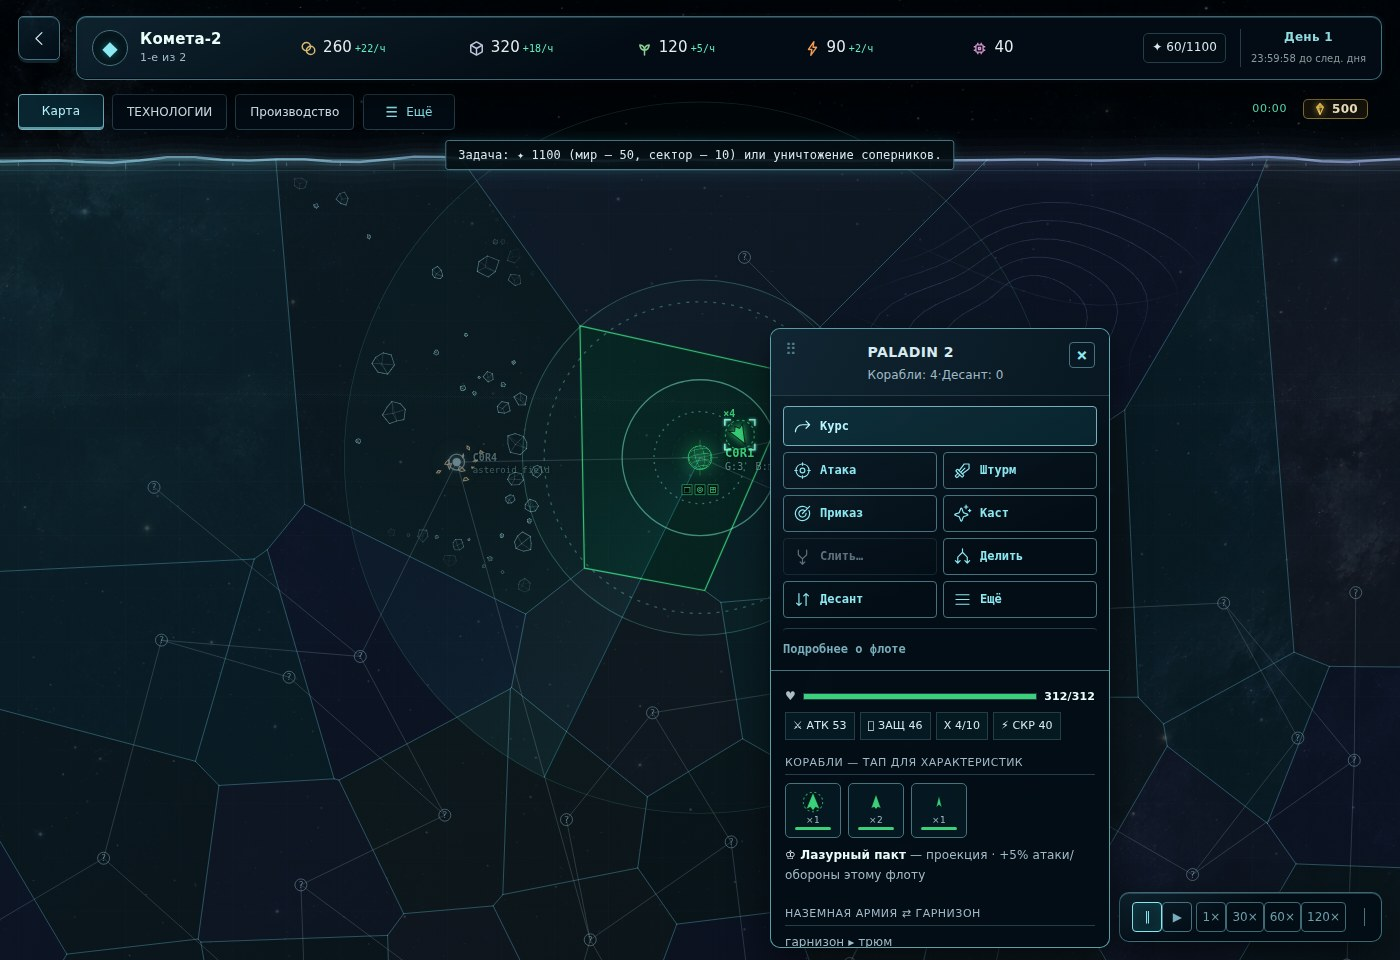
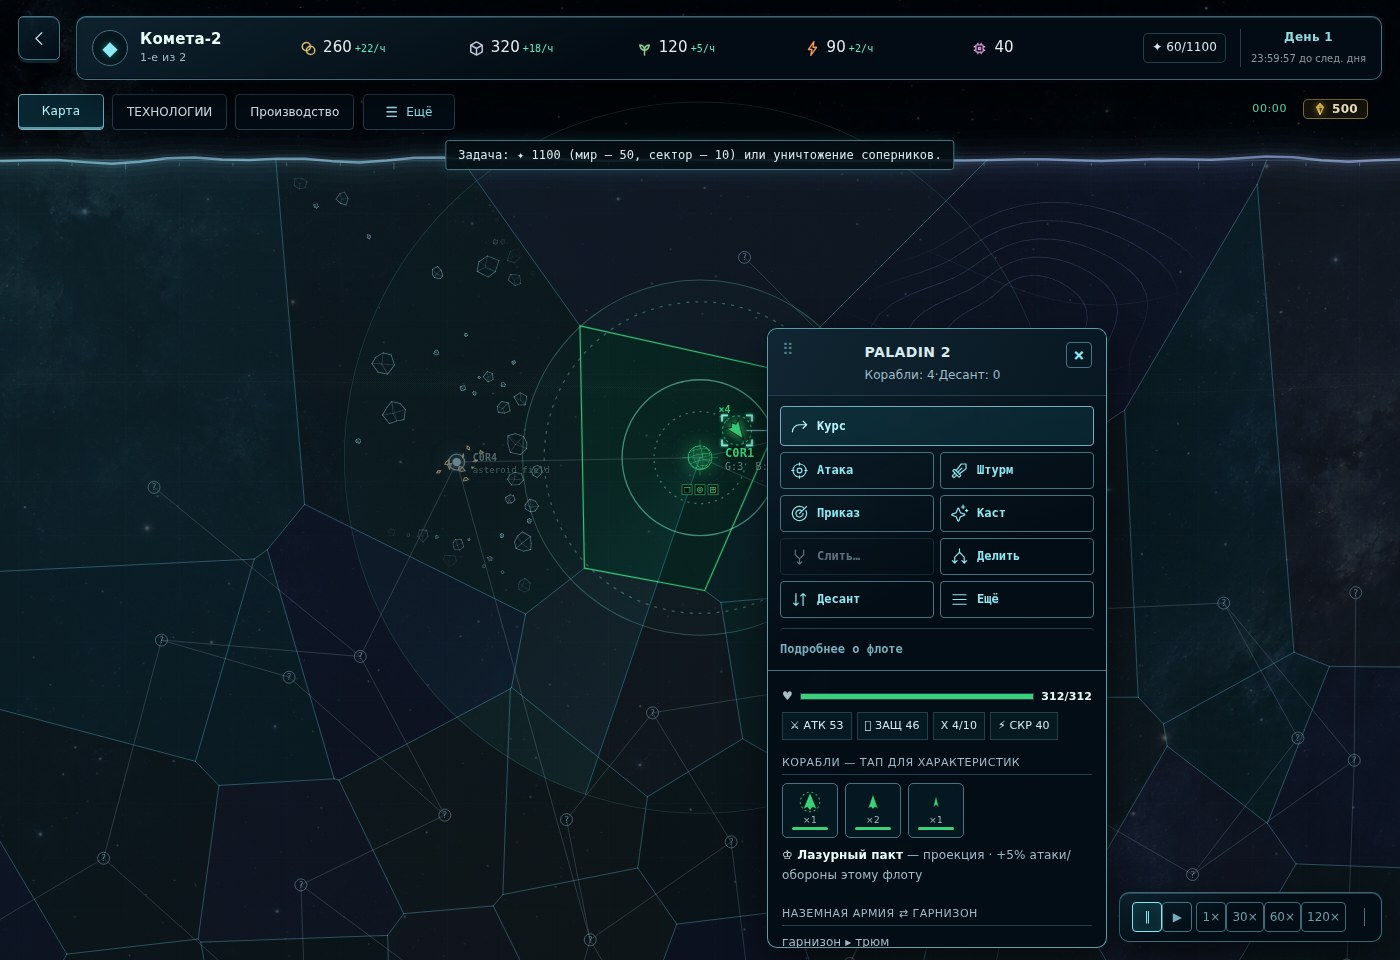
Убрать углы за кромкой карты и вернуть нить к окну выделения

diff --git a/prototype/src/main.ts b/prototype/src/main.ts
@@ -494,7 +494,7 @@ import { initSettings } from './settingsOverlay';
 import { initHolographicUi, commandWindowHtml } from './holographicUi';
 import { provincePingTarget, provinceForPing } from './provincePingAnchor';
 import { reframePresentation, supportsHolography } from './holographicLayout';
-import { drawGlassScreen, drawGlassWave, drawGlassRim, drawTerrainField, makeTerrainField, hasTerrainMaterial, type TerrainField } from './holographicSurface';
+import { drawGlassScreen, clipGlassSurface, drawGlassWave, drawGlassRim, drawTerrainField, makeTerrainField, hasTerrainMaterial, type TerrainField } from './holographicSurface';
 import { holographyOn, setHolography } from './graphicsPrefs';
 // «Профиль командира» — карьерное досье (REFM-10).
 import { initProfile } from './profileScreen';
@@ -4247,7 +4247,11 @@ function buildStaticLayer(): void {
   const br = world(frame.bottomRight);
   const clip = clipPolygon(tl, br);
   holographicFrame = { x: tl.x, y: tl.y, width: br.x - tl.x, height: br.y - tl.y };
-  if (holographic.active()) drawGlassScreen(g, holographicFrame, glowOn());
+  if (holographic.active()) {
+    drawGlassScreen(g, holographicFrame);
+    g.save();
+    clipGlassSurface(g, holographicFrame);
+  }
   // Weighted-Voronoi political fill + classified borders — the shared @void/client
   // territory renderer clamps the weights (so no cell is swallowed), tessellates the
   // power diagram, fills each province in its owner's colour, and draws same-owner
@@ -4295,6 +4299,8 @@ function buildStaticLayer(): void {
     g.lineTo(b.x, b.y);
     g.stroke();
   }
+
+  if (holographic.active()) g.restore();
 
   // map boundary — a faint frame so the edge of the sector reads as intentional
   g.strokeStyle = 'rgba(90,151,165,0.2)';
@@ -4384,9 +4390,10 @@ function render(now: number) {
   const detail = detailAt(cam.scale);
   blitStaticLayer(); // backdrop + province political map (re-baked on camera move, else cached)
   if (holographic.active()) {
+    cx.save();
+    clipGlassSurface(cx, holographicFrame);
     for (const field of terrainFields) drawTerrainField(cx, field, hologramTime, true);
     drawGlassWave(cx, holographicFrame, VW, VH, hologramTime, glowOn());
-    drawGlassRim(cx, holographicFrame, hologramTime, glowOn());
   }
   if (paintedSelection !== selPlanet) {
     paintedSelection = selPlanet;
@@ -4395,6 +4402,10 @@ function render(now: number) {
   const selectedPoly = selPlanet ? provincePolygons.get(selPlanet) : undefined;
   if (selectedPoly) drawProvinceSelection(cx, selectedPoly, selectionPulse(now - selectionStarted, motionOn()), LOCK);
   drawCaptureFlashes(now); // wave over a just-flipped province, over the political fill
+  if (holographic.active()) {
+    cx.restore();
+    drawGlassRim(cx, holographicFrame, hologramTime, glowOn());
+  }
   drawScanSweep(now); // slow radar sweep — pure console chrome
   updateRadarContacts(now); // the arm paints enemy signatures as it crosses them
   updateThreatAlerts(); // «враг у ваших рубежей» — once per game step

diff --git a/prototype/src/holographicSurface.ts b/prototype/src/holographicSurface.ts
@@ -171,50 +171,35 @@ function polygon(g: CanvasRenderingContext2D, poly: ProvincePolygon): void {
   g.closePath();
 }
 
-function glassPath(g: CanvasRenderingContext2D, r: HoloRect, offset = 0): void {
-  const x = r.x + offset;
-  const y = r.y + offset;
+function glassPath(g: CanvasRenderingContext2D, r: HoloRect): void {
+  const x = r.x;
+  const y = r.y;
   const w = r.width;
   const h = r.height;
   const radius = Math.min(w, h) * 0.026;
   g.beginPath();
   g.moveTo(x + radius, y);
   g.lineTo(x + w - radius, y);
-  g.quadraticCurveTo(x + w, y, x + w, y + radius);
+  g.arc(x + w - radius, y + radius, radius, -Math.PI / 2, 0);
   g.lineTo(x + w, y + h - radius);
-  g.quadraticCurveTo(x + w, y + h, x + w - radius, y + h);
+  g.arc(x + w - radius, y + h - radius, radius, 0, Math.PI / 2);
   g.lineTo(x + radius, y + h);
-  g.quadraticCurveTo(x, y + h, x, y + h - radius);
+  g.arc(x + radius, y + h - radius, radius, Math.PI / 2, Math.PI);
   g.lineTo(x, y + radius);
-  g.quadraticCurveTo(x, y, x + radius, y);
+  g.arc(x + radius, y + radius, radius, Math.PI, Math.PI * 1.5);
   g.closePath();
 }
 
+/** Clip paint only. Province polygons, ownership and hit testing stay unchanged. */
+export function clipGlassSurface(g: CanvasRenderingContext2D, frame: HoloRect): void {
+  glassPath(g, frame);
+  g.clip();
+}
+
 /** Cached with the political map, including its world-boundary projection. */
-export function drawGlassScreen(g: CanvasRenderingContext2D, frame: HoloRect, glow: boolean): void {
+export function drawGlassScreen(g: CanvasRenderingContext2D, frame: HoloRect): void {
   if (frame.width <= 0 || frame.height <= 0) return;
   g.save();
-  const depth = frame.width * 0.005;
-  // A second, lower light plane gives the projection a visible thickness.
-  // Both planes belong to the world rectangle and follow its camera transform.
-  const lower = { ...frame, x: frame.x + depth * 0.28, y: frame.y + depth };
-  glassPath(g, lower);
-  g.fillStyle = rgba('#010b12', 0.2);
-  g.fill();
-  g.strokeStyle = rgba(theme.cyan, glow ? 0.19 : 0.1);
-  g.lineWidth = 0.8;
-  g.stroke();
-  g.beginPath();
-  for (const [x, y] of [
-    [frame.x + 20, frame.y],
-    [frame.x + frame.width - 20, frame.y],
-    [frame.x + 20, frame.y + frame.height],
-    [frame.x + frame.width - 20, frame.y + frame.height],
-  ]) {
-    g.moveTo(x!, y!);
-    g.lineTo(x! + depth * 0.28, y! + depth);
-  }
-  g.stroke();
   glassPath(g, frame);
   const wash = g.createLinearGradient(
     frame.x,
@@ -233,10 +218,6 @@ export function drawGlassScreen(g: CanvasRenderingContext2D, frame: HoloRect, gl
   g.shadowBlur = 0;
   g.stroke();
   g.shadowBlur = 0;
-  glassPath(g, frame, 5);
-  g.strokeStyle = rgba(theme.reflection, 0.12);
-  g.lineWidth = 0.7;
-  g.stroke();
   g.save();
   glassPath(g, frame);
   g.clip();

diff --git a/prototype/src/holographicUi.ts b/prototype/src/holographicUi.ts
@@ -3,7 +3,7 @@ import { t } from '../../localization/runtime';
 import { esc } from './format';
 import { holoIcon, skinIcon, type HoloIcon } from './holographicIcons';
 import { holographyOn, motionOn, glowOn } from './graphicsPrefs';
-import { supportsHolography, selectionWindowPosition, type HoloPoint } from './holographicLayout';
+import { supportsHolography, selectionWindowPosition, selectionThread, type HoloPoint } from './holographicLayout';
 import { initFloatingWindows } from './floatingWindows';
 
 interface HolographicHost {
@@ -61,6 +61,13 @@ export function initHolographicUi(host: HolographicHost) {
   host.side.parentNode!.insertBefore(sideHome, host.side);
   host.commands.parentNode!.insertBefore(commandHome, host.commands);
   document.body.appendChild(selection);
+  const thread = document.createElement('div');
+  thread.id = 'holo-selection-thread';
+  thread.setAttribute('aria-hidden', 'true');
+  thread.innerHTML = '<svg width="100%" height="100%"><path class="holo-thread-glow"/><path class="holo-thread-line"/></svg>';
+  document.body.appendChild(thread);
+  const threadPaths = thread.querySelectorAll<SVGPathElement>('path');
+  let threadPath = '';
   const windows = initFloatingWindows();
   let enabled = false;
   let inGame = false;
@@ -98,6 +105,7 @@ export function initHolographicUi(host: HolographicHost) {
       width = w;
       height = h;
       inGame = inMatch;
+      if (!next || !inMatch) thread.style.display = 'none';
       document.body.classList.toggle('holo-available', supported);
       document.body.classList.toggle('holo-ui', next);
       document.body.classList.toggle('holo-in-match', next && inMatch);
@@ -147,6 +155,19 @@ export function initHolographicUi(host: HolographicHost) {
       }
       // Window coordinates only respond to the user's drag/keys and viewport resize.
       windows.sync(enabled, width, height);
+      const box = enabled && inGame ? windows.bounds('holo-selection-window') : null;
+      const anchor = box ? host.selectionAnchor() : null;
+      const line = box && anchor && anchor.x >= 0 && anchor.y >= 0 && anchor.x <= width && anchor.y <= height
+        ? selectionThread(anchor, box) : null;
+      thread.style.display = line ? 'block' : 'none';
+      if (line) {
+        const round = (n: number): number => Math.round(n * 2) / 2;
+        const path = `M${round(line.from.x)} ${round(line.from.y)} L${round(line.to.x)} ${round(line.to.y)}`;
+        if (path !== threadPath) {
+          threadPaths.forEach((item) => item.setAttribute('d', path));
+          threadPath = path;
+        }
+      }
     },
   };
 }

diff --git a/prototype/src/holographicLayout.test.ts b/prototype/src/holographicLayout.test.ts
@@ -1,5 +1,5 @@
 import { describe, expect, it } from 'vitest';
-import { reframePresentation, supportsHolography, selectionWindowPosition } from './holographicLayout';
+import { reframePresentation, supportsHolography, selectionWindowPosition, selectionThread } from './holographicLayout';
 import { worldToScreen } from '../../packages/client/src/camera';
 
 it('changing the skin preserves map positions and physical zoom in both directions', () => {
@@ -49,4 +49,15 @@ it('opens beside the selection on the side with room and below the top chrome', 
   expect(selectionWindowPosition({ x: 1250, y: 300 }, size, view, 104)).toEqual({ x: 880, y: 252 });
   expect(selectionWindowPosition({ x: 500, y: 40 }, size, view, 104).y).toBe(104);
   expect(selectionWindowPosition({ x: 500, y: 940 }, size, view, 104).y).toBe(398);
+});
+
+it('connects each object to the nearest window side without crossing its rounded corners', () => {
+  const box = { x: 400, y: 200, width: 340, height: 500 };
+  expect(selectionThread({ x: 300, y: 350 }, box)).toEqual({ from: { x: 310, y: 350 }, to: { x: 400, y: 350 } });
+  expect(selectionThread({ x: 850, y: 350 }, box)?.to).toEqual({ x: 740, y: 350 });
+  expect(selectionThread({ x: 500, y: 100 }, box)?.to).toEqual({ x: 500, y: 200 });
+  expect(selectionThread({ x: 500, y: 850 }, box)?.to).toEqual({ x: 500, y: 700 });
+  expect(selectionThread({ x: 300, y: 100 }, box)?.to).toEqual({ x: 400, y: 214 });
+  expect(selectionThread({ x: 500, y: 350 }, box)).toBeNull();
+  expect(selectionThread({ x: 395, y: 350 }, box)).toBeNull();
 });

diff --git a/prototype/src/holographicLayout.ts b/prototype/src/holographicLayout.ts
@@ -38,6 +38,21 @@ export interface HoloRect {
   height: number;
 }
 
+/** A fine leader ends on the nearest straight side, clear of the window's corners. */
+export function selectionThread(anchor: HoloPoint, box: HoloRect): { from: HoloPoint; to: HoloPoint } | null {
+  const right = box.x + box.width, bottom = box.y + box.height;
+  if (anchor.x >= box.x && anchor.x <= right && anchor.y >= box.y && anchor.y <= bottom) return null;
+  const x = Math.max(box.x + 14, Math.min(anchor.x, right - 14));
+  const y = Math.max(box.y + 14, Math.min(anchor.y, bottom - 14));
+  const ends = [{ x: box.x, y }, { x: right, y }, { x, y: box.y }, { x, y: bottom }];
+  const distance = (p: HoloPoint): number => Math.hypot(p.x - anchor.x, p.y - anchor.y);
+  const to = ends.reduce((nearest, point) => distance(point) < distance(nearest) ? point : nearest);
+  const length = distance(to);
+  if (length <= 14) return null;
+  return { from: { x: anchor.x + (to.x - anchor.x) * 10 / length,
+    y: anchor.y + (to.y - anchor.y) * 10 / length }, to };
+}
+
 /** Place the compact command window beside the object once, without covering its marker. */
 export function selectionWindowPosition(
   anchor: HoloPoint, size: { width: number; height: number },

diff --git a/prototype/src/floatingWindows.ts b/prototype/src/floatingWindows.ts
@@ -1,6 +1,6 @@
 /** Local window geometry. Never reads selection, camera or simulation state. */
 import { t } from '../../localization/runtime';
-import type { HoloPoint } from './holographicLayout';
+import type { HoloPoint, HoloRect } from './holographicLayout';
 
 const WINDOWS = [
   ['holo-selection-window', '', '.phead,.holo-command-head,.chlabel'],
@@ -169,6 +169,13 @@ export function initFloatingWindows() {
   }, true);
 
   return {
+    /** The leader reads cached geometry; it never moves or measures the window. */
+    bounds(id: string): HoloRect | null {
+      const entry = entries.find((item) => item.id === id);
+      return entry?.visible && entry.point && entry.size ? {
+        x: Math.round(entry.point.x), y: Math.round(entry.point.y), ...entry.size,
+      } : null;
+    },
     /** A newly selected object suggests an opening position; a user's placement wins. */
     openAt(id: string, point: HoloPoint): void {
       const entry = entries.find((item) => item.id === id);

diff --git a/prototype/holographic.css b/prototype/holographic.css
@@ -248,6 +248,12 @@ body.holo-no-glow.holo-ui :is(#top,#side,#cmdbar,#speedbar,#railtools,#chatwin,.
 
 /* The small command window beside the selection contains the complete dossier too. */
 #holo-selection-window{display:none;}
+#holo-selection-thread{display:none;position:fixed;inset:0;z-index:19;pointer-events:none;}
+#holo-selection-thread *{pointer-events:none;}
+#holo-selection-thread path{fill:none;stroke:#a1dce9;stroke-linecap:round;}
+#holo-selection-thread .holo-thread-line{stroke-width:.9;opacity:.62;}
+#holo-selection-thread .holo-thread-glow{stroke-width:3.5;opacity:.1;}
+body.holo-no-glow #holo-selection-thread .holo-thread-glow{display:none;}
 body.holo-ui #holo-selection-window{
   position:fixed;left:50%;top:40%;width:min(340px,calc(100vw - 36px));
   --holo-window-max-height:min(620px,74dvh);

diff --git a/docs/state.md b/docs/state.md
@@ -6,7 +6,7 @@
 > `deep-technical-roadmap.md`, `multiplayer.md`, `metagame.md`, `map-roadmap.md`, `security-a06.md` (модель угроз/A06), корневой `CLAUDE.md` / `CONTRIBUTING.md`.
 >
 > **Ветка:** feature-ветка · **PR:** создаётся после изменений.
-> **Гейт:** `pnpm run check` (lint + typecheck + test + docs-check). **Тесты: 5910 зелёных** (70 skip; 449 файлов проверено, 1 файл пропущен). Пропуски — тесты durable-пути и учение бэкапов, которым нужна база; в CI база есть, но нет пакета `age`, поэтому там дополнительно пропущен один тест — реальный криптокруг (проводку шифрования CI проверяет заглушкой, см. §10).
+> **Гейт:** `pnpm run check` (lint + typecheck + test + docs-check). **Тесты: 5911 зелёных** (70 skip; 449 файлов проверено, 1 файл пропущен). Пропуски — тесты durable-пути и учение бэкапов, которым нужна база; в CI база есть, но нет пакета `age`, поэтому там дополнительно пропущен один тест — реальный криптокруг (проводку шифрования CI проверяет заглушкой, см. §10).
 
 **Быстрый старт сессии** (навигация — факты живут в секциях и не дублируются здесь):
 
@@ -2514,6 +2514,11 @@ instantRepair, fleetRepair, effects, seatClaim, visibility])` (35 модулей
     Сводка и все прежние приказы доступны в этом же окне. Начальная позиция
     выбирается один раз рядом с объектом; движение флота и камеры её не меняет.
     После перетаскивания предпочтение игрока сохраняется и при смене выделения.
+    Тонкая нить соединяет выбранный объект с ближайшей стороной окна. Геометрия
+    окна читается из кэша `floatingWindows.bounds`, без перемещения или покадрового
+    измерения окна. Нить следует объекту и камере, её конец — перетаскиваемому окну;
+    клики проходят насквозь. Под закрытым окном, над перекрытым им объектом,
+    вне экрана, в простом режиме и на телефоне нить скрыта.
     При прицеливании информация скрывается по прежним правилам, команды
     отмены/подтверждения остаются в том же окне.
     **Пинг в тумане:** кнопка есть в карточках неисследованной и запомненной
@@ -2559,8 +2564,9 @@ instantRepair, fleetRepair, effects, seatClaim, visibility])` (35 модулей
     Прежние вращающиеся wire-планеты сохранены; станция изображена прозрачным
     орбитальным каркасом. Орбиты, метки владельцев, здания, выделение и подписи
     остаются прежними. Неизвестная местность скрыта прежним туманом и памятью разведки.
-    Глубину карты передают второй световой край, координатная сетка и деления
-    в плоскости мира; космический фон приглушён. Простой режим и телефонная
+    Глубину карты передают мягкий ореол, координатная сетка и деления в плоскости
+    мира; космический фон приглушён. Дополнительная смещённая рамка, нижний
+    контур и жёсткие угловые соединения сняты. Простой режим и телефонная
     раскладка сохранены.
     Перелив стекла — слабая холодная бирюзово-сине-фиолетовая интерференция без
     яркого скользящего блика и золотистых оттенков. Координаты, ширина и изгиб
@@ -2573,7 +2579,11 @@ instantRepair, fleetRepair, effects, seatClaim, visibility])` (35 модулей
     **Нестабильная кромка:** сама граница `drawGlassRim` — непрерывная холодная
     нить с небольшим «кипением», включая скруглённые углы. Пять мягких проходов
     создают небольшой ореол снаружи и внутри линии, шестой рисует её светящийся
-    центр. Геометрия, скругления и толщина масштабируются вместе с картой;
+    центр. `clipGlassSurface` ограничивает только отрисовку провинций, местности,
+    путей, выделения и вспышек захвата теми же круглыми углами, что и кромка:
+    прямоугольные выступы больше не видны. Полигон провинции и hit testing не
+    меняются; ореол рисуется после снятия ограничения и выходит наружу.
+    Геометрия, скругления и толщина масштабируются вместе с картой;
     покадрового blur нет. Выключенное свечение оставляет один тонкий проход.
     Используется тот же `hologramTime`: пауза и выключенное движение замораживают
     кромку вместе с остальной проекцией. Тихая волна на плоскости сохранена.
